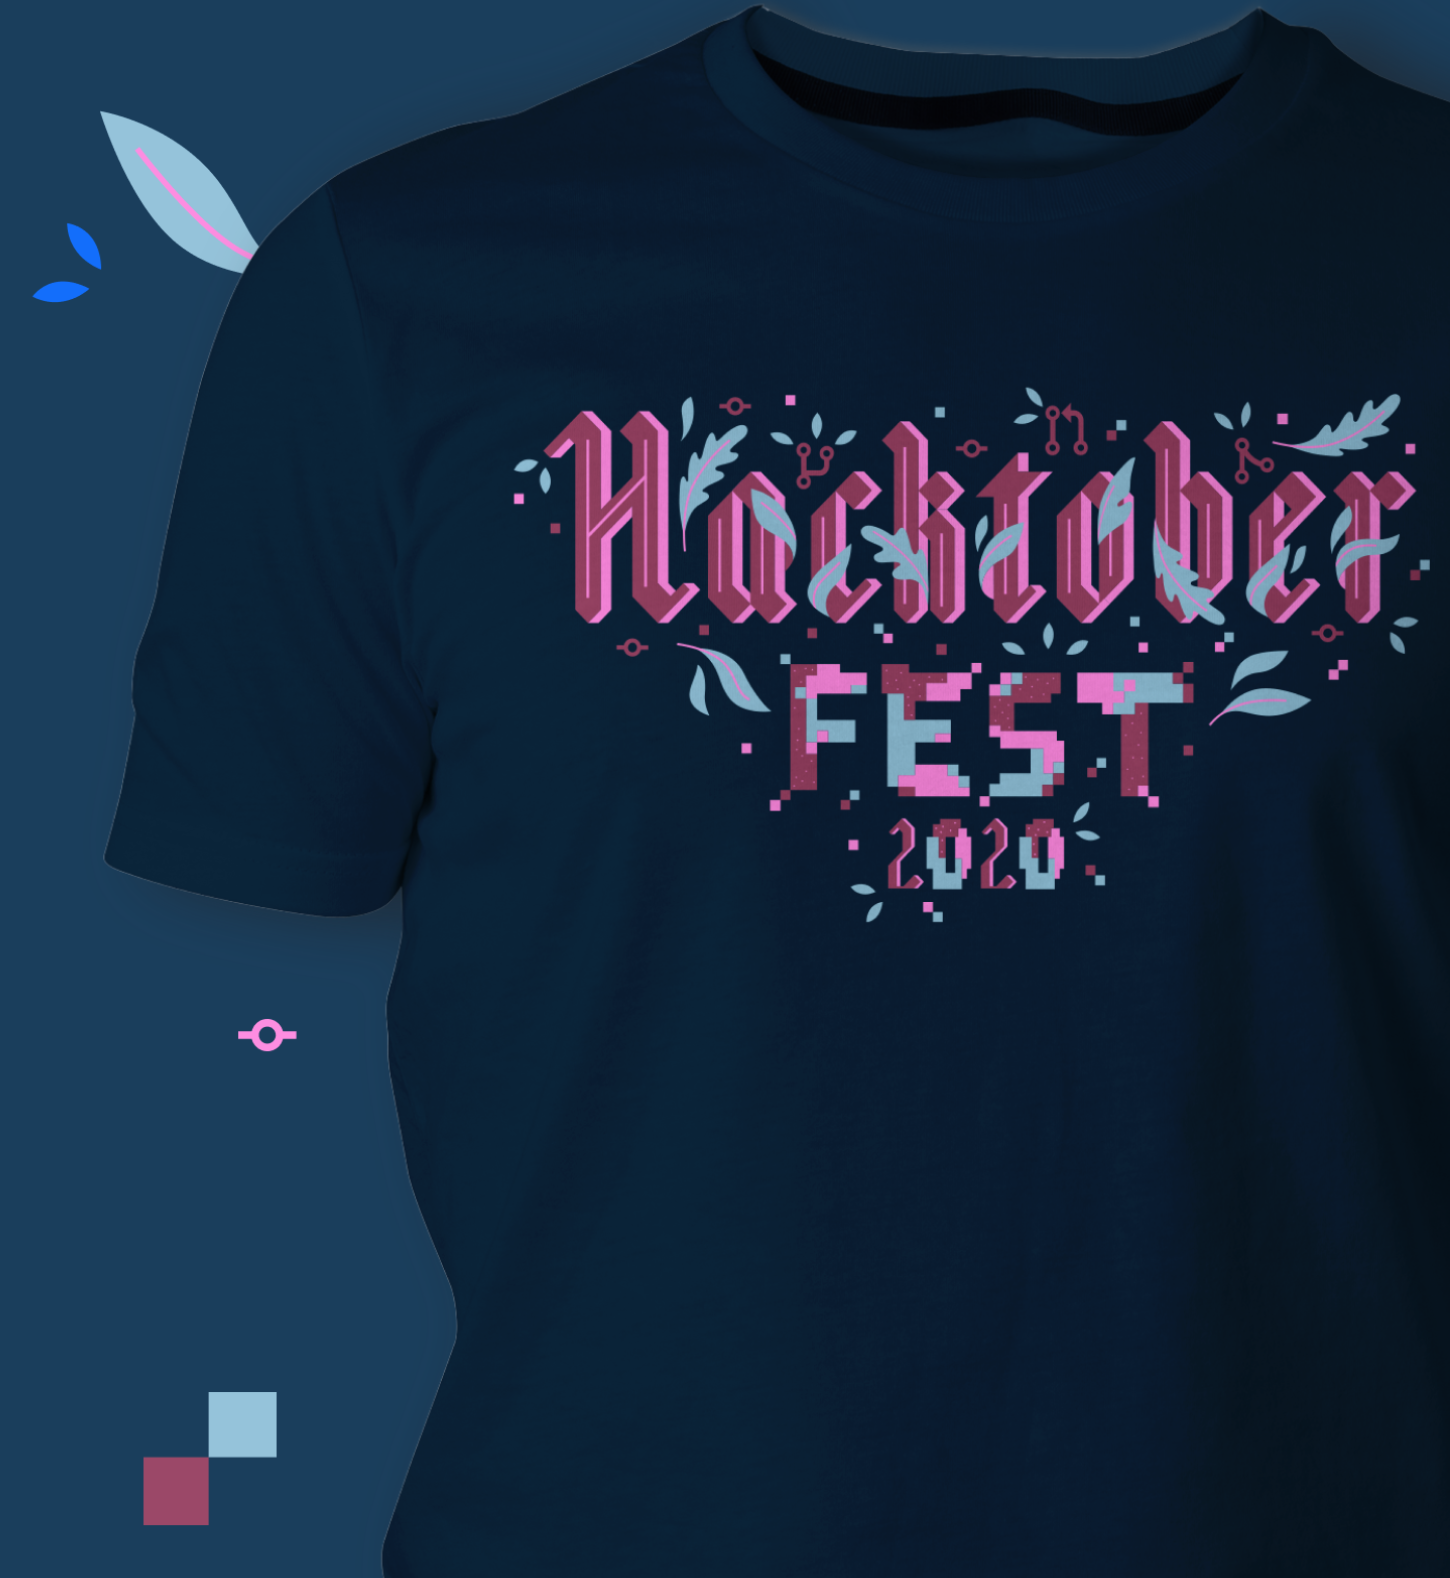
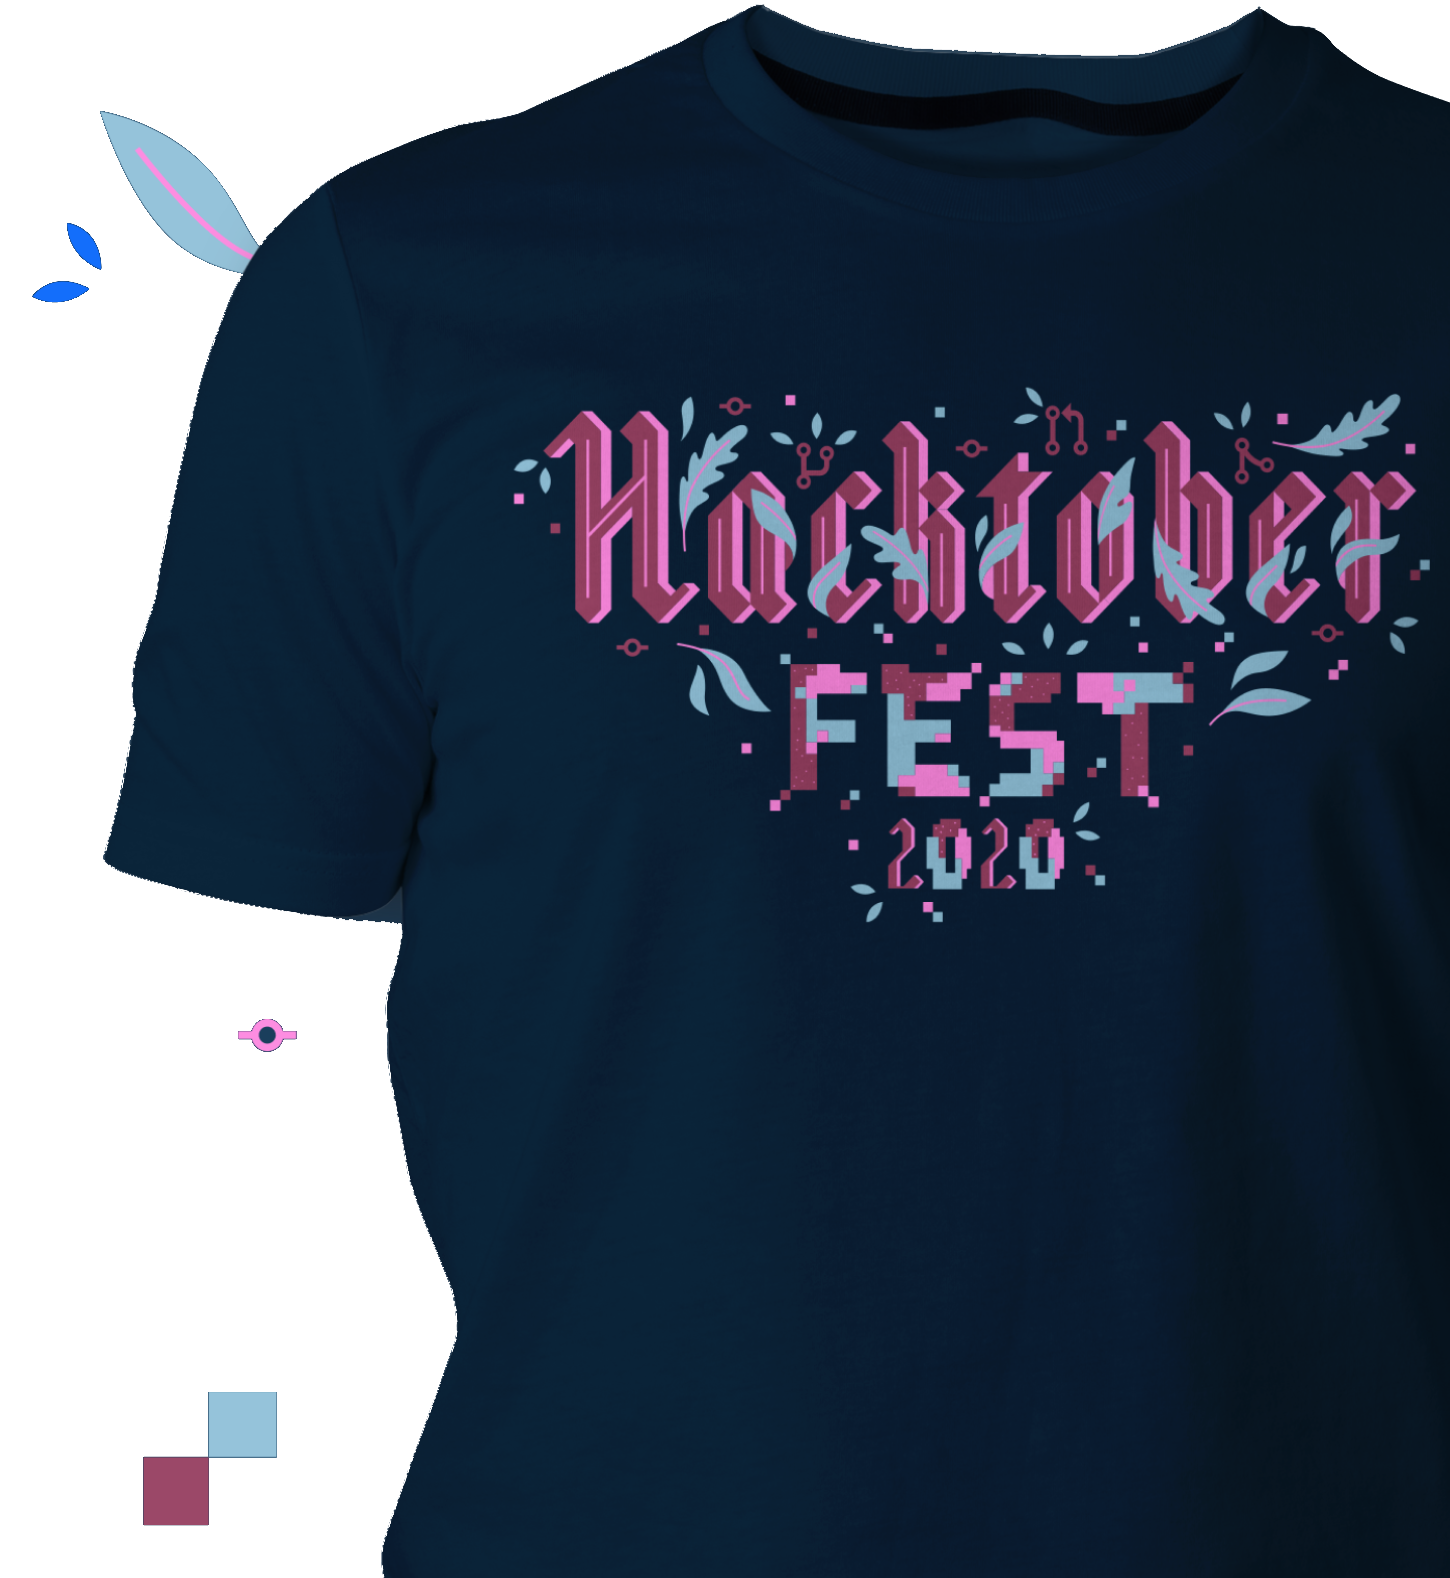
Replaced tshirt png with clear background, added a visitor's counter and changed text for the clock

Changed region(s): [[0.0, 0.0, 1.0, 1.0]]

diff --git a/index.html b/index.html
@@ -24,7 +24,7 @@
       </a>
     </div>
     <div>
-      <p id="t1">Time left..</p>
+      <p id="t1">Hacktoberfest'20 ends in..</p>
       <p id="demo"></p>
       <p id="p1">
         <script>
@@ -122,8 +122,8 @@
         src="images/tshirt.png"
         alt="Hacktoberfest T-shirt"
         class="image"
-        style="display: block; margin-left: auto; margin-right: auto; width : 50%;"
-      />
+        style="display: block; margin-left: auto; margin-right: auto; width : 50%; padding: 5%;"
+     />
     </div>
     <br />
     <div style="text-align: center">
@@ -142,7 +142,9 @@
     <footer id="foot">
 
   <h4 style="text-align:center; color:white;"> © 2020 DigitalOcean, LLC. All rights reserved.</h4>
-</footer>
+  <h4 style="text-align:center; color:white;"> ---- Visitor's count ----</h4>
+  <!-- Badge Code - Do Not Change The Code --><div class="col-xs-12 mt20" id="bg"><div style="margin:0px auto;width:133px;background:rgb(43, 76, 124);text-align:left;display:flex;border-radius:5px"><span style="padding:7px;display:inline-block;border-right:1px solid #746dba"><a href="http://visitorshitcounter.com" rel="nofollow noopener"  target="_blank" title="https://visitorshitcounter.com/"><img src="https://visitorshitcounter.com/img/s-logo.svg" alt="https://visitorshitcounter.com/" style="width:100%;border:none;float:left"></a></span><span class="text" id="dupli_hit_counter"   style="padding:10px 0 0 0;display:inline-block;color:#ffffff;width:100%;text-align:center;"></span></span><input type="hidden" id="site_val"   value="https://visitorshitcounter.com/counterDisplay?code=c1cf1d3bf248cd36b19d93ec8a2e938a&style=0017&pad=5&type=page&initCount=1"></div></div><script src="https://visitorshitcounter.com/js/badgess.js?v=1601553115"></script><!-- Badge Code End Here -->
+    </footer>
   </body>
 </html>
 
